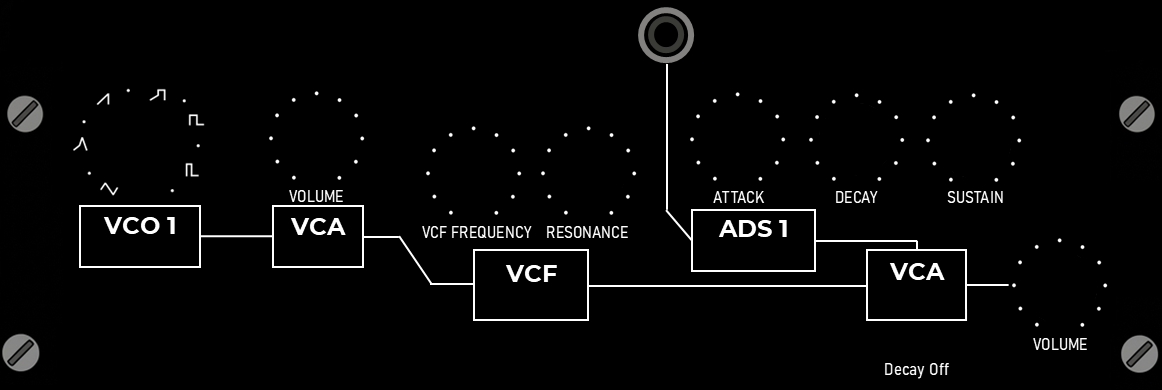
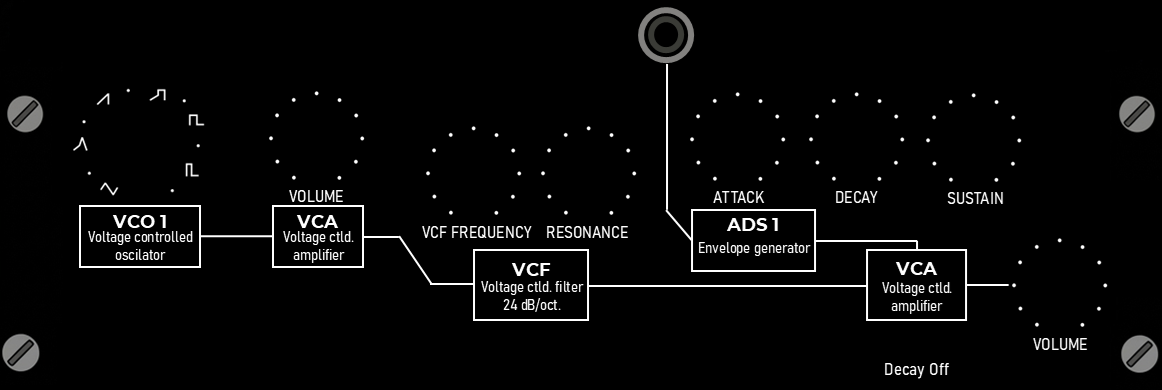
7th Commit
- PluginProcessor.h/cpp: input level before the filter parameter added.
- Synth.h/cpp: input level parameter added.
- Voice.h: input level applied before filter.
- magic.xml: input level knob added. Background image updated.

diff --git a/Source/PluginProcessor.cpp b/Source/PluginProcessor.cpp
@@ -35,6 +35,7 @@ apvts (*this, nullptr, "PARAMETERS", createParameterLayout())
     castParameter(apvts, ParameterID::sustainParam, sustainParam);
     castParameter(apvts, ParameterID::decayOff, decayOffParam);
 
+    castParameter(apvts, ParameterID::vcfInputLevel, vcfInputLevelParam);
     castParameter(apvts, ParameterID::cutoffParam, cutoffParam);
     castParameter(apvts, ParameterID::resonanceParam, resonanceParam);
     
@@ -215,6 +216,7 @@ void KobolVCOAudioProcessor::update(){
     else synth.decayTime = Synth::decayCurve(decayParam->get());
     synth.sustainLevel = Synth::sustainCurve(sustainParam->get());
 
+    synth.vcfInputLevel = vcfInputLevelParam->get() / 5.0f;
     synth.filterCutoff    = Synth::cutoffCurve(cutoffParam->get());
     synth.filterResonance = resonanceParam->get();
 }
@@ -264,14 +266,19 @@ juce::AudioProcessorValueTreeState::ParameterLayout KobolVCOAudioProcessor::crea
             juce::NormalisableRange<float>(0.0f, 1.0f, 1.0f), 0.0f));
 
     layout.add(std::make_unique<juce::AudioParameterFloat>(
-        ParameterID::cutoffParam, "VCF Cutoff",
-        juce::NormalisableRange<float>(0.0f, 10.0f, 0.01f), 7.0f,
-        juce::AudioParameterFloatAttributes().withLabel("V")));
+            ParameterID::vcfInputLevel, "VCF Input Level",
+            juce::NormalisableRange<float>(0.0f, 10.0f, 0.01f), 5.0f,
+            juce::AudioParameterFloatAttributes().withLabel("V")));
+
+    layout.add(std::make_unique<juce::AudioParameterFloat>(
+            ParameterID::cutoffParam, "VCF Cutoff",
+            juce::NormalisableRange<float>(0.0f, 10.0f, 0.01f), 7.0f,
+            juce::AudioParameterFloatAttributes().withLabel("V")));
  
     layout.add(std::make_unique<juce::AudioParameterFloat>(
-        ParameterID::resonanceParam, "VCF Resonance",
-        juce::NormalisableRange<float>(0.0f, 1.0f, 0.01f), 0.0f,
-        juce::AudioParameterFloatAttributes().withLabel("")));
+            ParameterID::resonanceParam, "VCF Resonance",
+            juce::NormalisableRange<float>(0.0f, 1.0f, 0.01f), 0.0f,
+            juce::AudioParameterFloatAttributes().withLabel("")));
 
     return layout;
 

diff --git a/Source/PluginProcessor.h b/Source/PluginProcessor.h
@@ -34,6 +34,7 @@ namespace ParameterID // IDs dels paràmetres del plugin
     PARAMETER_ID(sustainParam)
     PARAMETER_ID(decayOff)
 
+    PARAMETER_ID(vcfInputLevel)
     PARAMETER_ID(cutoffParam)
     PARAMETER_ID(resonanceParam)
 
@@ -109,15 +110,16 @@ private:
     
     
 
-    juce::AudioParameterFloat* outputLevelParam; // Punter al paràmetre nivell de sortida
-    juce::AudioParameterFloat* waveFParam;       // Punter al paràmetre waveform
-    juce::AudioParameterFloat* attackParam;      // Punter al paràmetre d'attack
-    juce::AudioParameterFloat* decayParam;       // Punter al paràmetre de decay
-    juce::AudioParameterFloat* sustainParam;     // Punter al paràmetre de sustain
-    juce::AudioParameterFloat* decayOffParam;    // Punter al paràmetre decay off
+    juce::AudioParameterFloat* outputLevelParam;   // Punter al paràmetre nivell de sortida
+    juce::AudioParameterFloat* waveFParam;         // Punter al paràmetre waveform
+    juce::AudioParameterFloat* attackParam;        // Punter al paràmetre d'attack
+    juce::AudioParameterFloat* decayParam;         // Punter al paràmetre de decay
+    juce::AudioParameterFloat* sustainParam;       // Punter al paràmetre de sustain
+    juce::AudioParameterFloat* decayOffParam;      // Punter al paràmetre decay off
 
-    juce::AudioParameterFloat* cutoffParam;      // Punter al paràmetre cutoff
-    juce::AudioParameterFloat* resonanceParam;   // Punter al paràmetre resonance
+    juce::AudioParameterFloat* vcfInputLevelParam; // Punter al paràmetre nivell abans del filtre
+    juce::AudioParameterFloat* cutoffParam;        // Punter al paràmetre cutoff
+    juce::AudioParameterFloat* resonanceParam;     // Punter al paràmetre resonance
 
     // FOLEYS MAGIC GUI:
     foleys::MagicPlotSource* oscilloscope = nullptr; // Oscil·loscopi (GUI)

diff --git a/Source/Voice.h b/Source/Voice.h
@@ -21,6 +21,7 @@ struct Voice
 
     // VCF
     Filter filter;
+    float vcfInputLevel { 1.0f };
     float filterCutoff {22000.0f}; // Freqüència de tall
     float filterResonance {0.0f};  // Resonància [0, 1]
 
@@ -44,6 +45,7 @@ struct Voice
     float render(){ //Render Nextsample
         // 1. VCO
         float sample = osc.nextSample(waveForm); // Crida l'oscil·lador per generar la mostra següent
+        sample *= vcfInputLevel;
         // 2. VCF
         sample = filter.processSample(sample, filterCutoff, filterResonance);
         // 3. VCA

diff --git a/Source/Synth.cpp b/Source/Synth.cpp
@@ -104,6 +104,7 @@ void Synth::render(float** outputBuffers, int sampleCount){ // Genera sampleCoun
         float output=0.0f; // Inicialització de la sortida a zero
         
         voice.waveForm=waveForm; //WF
+        voice.vcfInputLevel = vcfInputLevel;
         voice.filterCutoff=filterCutoff;
         voice.filterResonance=filterResonance;
         

diff --git a/Source/Synth.h b/Source/Synth.h
@@ -26,6 +26,7 @@ public:
     float decayTime   { 0.1f  };
     float sustainLevel{ 1.0f  };
 
+    float vcfInputLevel { 1.0f };
     float filterCutoff { 22000.0f };
     float filterResonance { 0.0f };
 